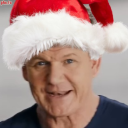
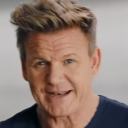
Replaced old profile pictures and validated all the HTML

diff --git a/index.html b/index.html
@@ -1,3 +1,5 @@
+<!DOCTYPE html>
+<html>
 <head>
     <meta charset="utf-8">
     <meta name="viewport" content="width=device-width, initial-scale=1">
@@ -23,7 +25,7 @@
             <br>
             <br>
             <br>
-            <img src=favicon.png style="width: 400px;" >
+            <img src=favicon.png alt="Logo" style="width: 400px;" >
             <br>
             <br>
             <h1> A media group made for the donkeys. </h1>
@@ -34,108 +36,108 @@
         </div>
     </section>
     <section style=margin:50px;>
-        <h1> Why is this media group cooler than all the others?</h1>
-        <h1 class=subtitle> and why should you care?</h1>
+        <h2 class="title"> Why is this media group cooler than all the others?</h2>
+        <h3 class=subtitle> and why should you care?</h3>
         <p> The Gordon Media Group is a media group made for the donkeys, it also has a single 4GB RAM VPS </p>
         <p> with over seven users currently using it on a <i>daily</i> basis. </p>
     </section>
-    <section style=margin:50px;>
+    <div style=margin:50px;>
         <div class=columns>
             <div class="column is-half">
-                <img src=img/1.png style=width:1000px;>
+                <img src=img/1.png alt="Image 1" style=width:1000px;>
             </div>
             <div class="column is-half">
-                <img src=img/2.png style=width:600px;>
+                <img src=img/2.png alt="Image 2" style=width:600px;>
             </div>
         </div>
-    </section>
+    </div>
 
         <br>
         <br>
         <br>
-        <h1> Staff </h1>
+        <h2 class="title"> Staff </h2>
         <br>
 
     <div class=columns>
         <div class=column>
             <div class=box>
-                <img src=img/dan.png class="brand">
-                <a href=https://danjamesbee.tk target=_blank> <p> <u> Dan </p> </u> </a>
+                <img src=img/dan.png alt="Dan's Avatar" class="brand">
+                <a href=https://danjamesbee.tk target=_blank> <p> <u> Dan </u> </p> </a>
                 <p class=subtitle> Owner </p>
             </div>
         </div>
         <div class=column>
             <div class=box>
-                <img src=img/jaffa.png class=brand>
+                <img src=img/jaffa.png alt="Jaffa's Avatar" class=brand>
                 <a href=https://jaffameme.ga target=_blank> <p> <u> Jaffa </u> </p> </a>
                 <p class=subtitle> Owner </p>
             </div>
         </div>
     </div>
 
-        <h1> VPS Users </h1>
+        <h3 class="title"> VPS Users </h3>
         <br>
 
     <div class=columns>
         <div class=column>
             <div class=box>
-                <img src=img/andrew.png class=brand>
-                <a href=https://twitter.com/hiamandrew target=_blank> <p> <u> Andrew </u> </p> </a>
+                <img src=img/aria.png alt="Aria's Avatar" class=brand>
+                <a href=https://arias.tech/ target=_blank> <p> <u> Aria </u> </p> </a>
                 <p class=subtitle> VPS User </p>
             </div>
         </div>
         <div class=column>
             <div class=box>
-                <img src=img/binman.png class=brand>
+                <img src=img/binman.png alt="BinmanMarky's Avatar" class=brand>
                 <a href=https://twitter.com/RealBinmanMarky target=_blank> <p> <u> BinmanMarky </u> </p> </a>
                 <p class=subtitle> VPS User </p>
             </div>
         </div>
         <div class=column>
             <div class=box>
-                <img src=img/ec.png class=brand>
+                <img src=img/ec.png alt="EC's Avatar" class=brand>
                 <a href=https://ec20.ml target=_blank> <p> <u> EC20 </u> </p> </a>
                 <p class=subtitle> VPS User </p>
             </div>
         </div>
         <div class=column>
             <div class=box>
-                <img src=img/estralia.png class=brand>
+                <img src=img/estralia.gif alt="Estralia's Avatar" class=brand>
                 <a href=https://www.youtube.com/channel/UCz2zXzVh3rpw2yVIdP5nPHg target=_blank> <p> <u> Estralia </u> </p> </a>
                 <p class=subtitle> VPS User </p>
             </div>
         </div>
         <div class=column>
             <div class=box>
-                <img src=img/ethan.png class=brand>
+                <img src=img/ethan.png alt="Ethan's Avatar" class=brand>
                 <a href=https://twitter.com/ComputeNot target=_blank> <p> <u> Ethan </u> </p> </a>
                 <p class=subtitle> VPS User </p>
             </div>
         </div>
         <div class=column>
             <div class=box>
-                <img src=img/george.png class=brand>
+                <img src=img/george.png alt="George's Avatar" class=brand>
                 <a href=https://steamcommunity.com/profiles/76561193784072060 target=_blank> <p> <u> George </u> </p> </a>
                 <p class=subtitle> VPS User </p>
             </div>
         </div>
         <div class=column>
             <div class=box>
-                <img src=img/haxer.png class=brand>
+                <img src=img/haxer.png alt="Haxer's Avatar" class=brand>
                 <a href=https://steamcommunity.com/id/TheRealHaxerYT/ target=_blank> <p> <u> Haxer </u> </p> </a>
                 <p class=subtitle> VPS User </p>
             </div>
         </div>
         <div class=column>
             <div class=box>
-                <img src=img/matt.png class=brand>
+                <img src=img/matt.png alt="Matt's Avatar" class=brand>
                 <a href=http://steamcommunity.com/id/DrivingMad target=_blank> <p> <u> Mattski900 </u> </p> </a>
                 <p class=subtitle> VPS User </p>
             </div>
         </div>
         <div class=column>
             <div class=box>
-                <img src=img/standup47.png class=brand>
+                <img src=img/standup47.png alt="Standup's Avatar" class=brand>
                 <a href=https://twitter.com/official_haste target=_blank> <p> <u> standup47 </u> </p> </a>
                 <p class=subtitle> VPS User [Sharing with Matt] </p>
             </div>
@@ -144,26 +146,26 @@
     <div class=columns>
         <div class=column>
             <div class=box>
-                <img src=img/kilet.png class=brand>
+                <img src=img/kilet.png alt="Kilet's Avatar" class=brand>
                 <a href=https://twitter.com/NightMareMing target=_blank> <p> <u> kilet.EXE </u> </p> </a>
                 <p class=subtitle> VPS User </p>
             </div>
         </div>
         <div class=column>
             <div class=box>
-                <img src=img/memez.png class=brand>
+                <img src=img/memez.png alt="Memez's Avatar" class=brand>
                 <a href=https://discord.io/gordonmediagroup target=_blank> <p> <u> Memez.EXE </u> </p> </a>
                 <p class=subtitle> VPS User [Sharing with kilet.EXE] </p>
             </div>
         </div>
     </div>
-</body>
-
     <footer>
         <div class="section footer" style="text-align:center;">
         <p> Gordon Media Group is not responsible for any data you lose or get stolen while using our VPSes. </p>
         <p> © Gordon Media Group </p>
         <br>
-        <p> Site by <a href=https://da532.com > Da532</a>, edited by <a href="https:/danjamesbee.tk">Dan.</a></p>
+        <p> Site by <a href=https://da532.com > Da532</a>, edited by <a href="https://danjamesbee.tk">Dan.</a></p>
         </div>
     </footer>
+</body>
+</html>

diff --git a/about.html b/about.html
@@ -1,3 +1,4 @@
+<!DOCTYPE html>
 <head>
     <meta charset="utf-8">
     <meta name="viewport" content="width=device-width, initial-scale=1">
@@ -18,34 +19,32 @@
     <a class=nav-item href=about.html style="color: black;"> About </a>
     </div>
 
-    <section class="hero" style="background-image:url('img/bg.jpg'); background-size: cover; color: white">
-    </section>
-    <section style=margin:50px;>
+    <div class="hero" style="background-image:url('img/bg.jpg'); background-size: cover; color: white">
+    </div>
+    <div style=margin:50px;>
         <h1> About </h1>
         <h1 class=subtitle> How did the Gordon Media Group start? </h1>
         <p> The Gordon Media Group started off as a meme, and then turned into reality, </p>
         <p> it also used to have over 3 VPS options, one with <strong>39GB</strong> of RAM! </p>
         <p> Since then, it has grown massively, with now over nearly <strong>30</strong> members. </p>
-    </section>
+    </div>
 
-    <section style=margin:50px;>
+    <div style=margin:50px;>
         <div class=columns>
             <div class="column is-half">
-                <img src=img/gordon1.png style=width:300px;>
+                <img src=img/gordon1.png alt="Gordon Ramsay 1" style=width:300px;>
             </div>
             <div class="column is-half">
-                <img src=img/gordon2.png style=width:300px;>
+                <img src=img/gordon2.png alt="Gordon Ramsay 2" style=width:300px;>
             </div>
         </div>
-    </section>
-
-    </section>
+    </div>
     <footer>
         <div class="section footer" style="text-align:center;">
           <p> Gordon Media Group is not responsible for any data you lose or get stolen while using our VPSes. </p>
           <p> © Gordon Media Group </p>
         <br>
-        <p> Site by <a href=https://da532.com > Da532</a>, edited by <a href="https://danjamesbee.tk">Dan.</p>
+        <p> Site by <a href=https://da532.com > Da532</a>, edited by <a href="https://danjamesbee.tk">Dan.</a></p>
         </div>
     </footer>
 </body>
